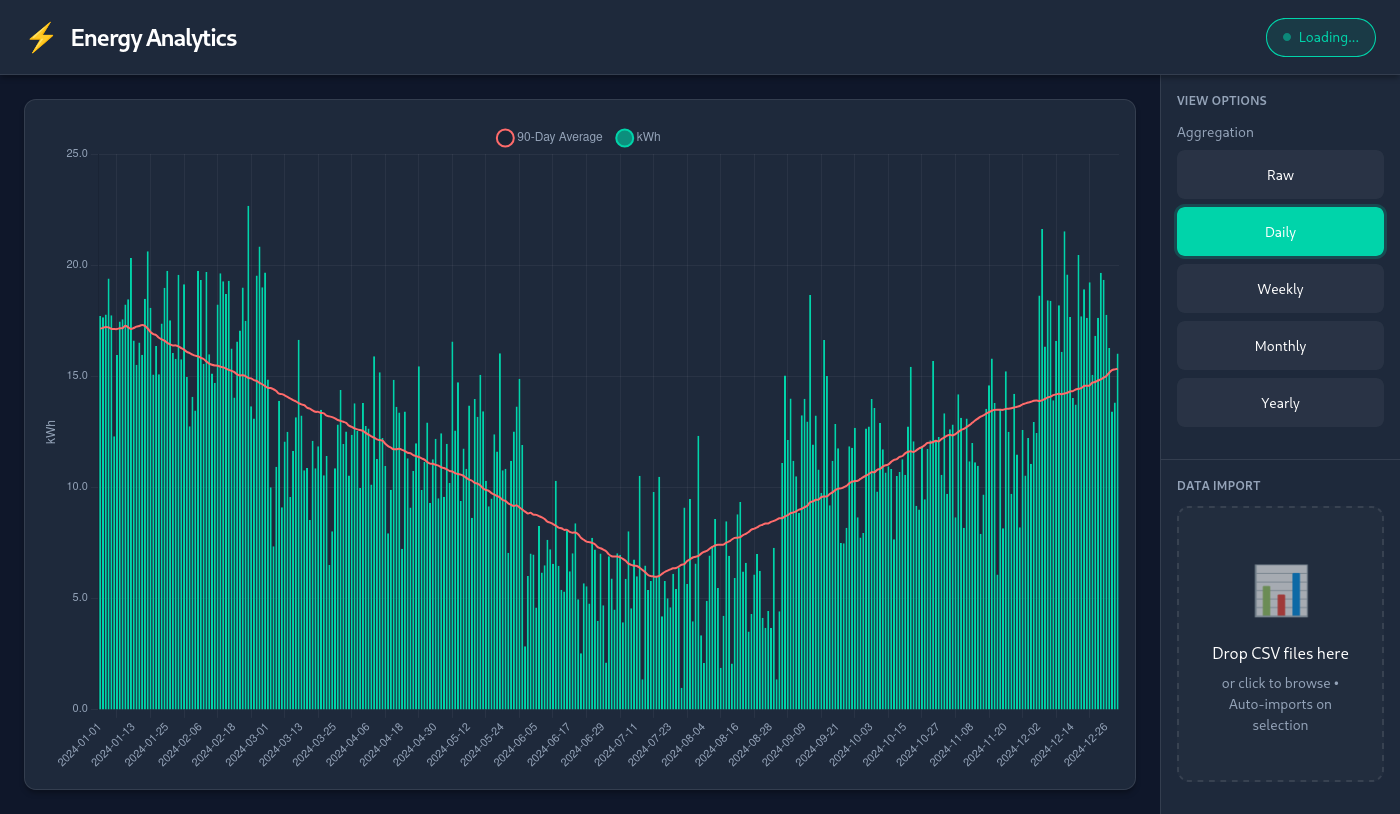
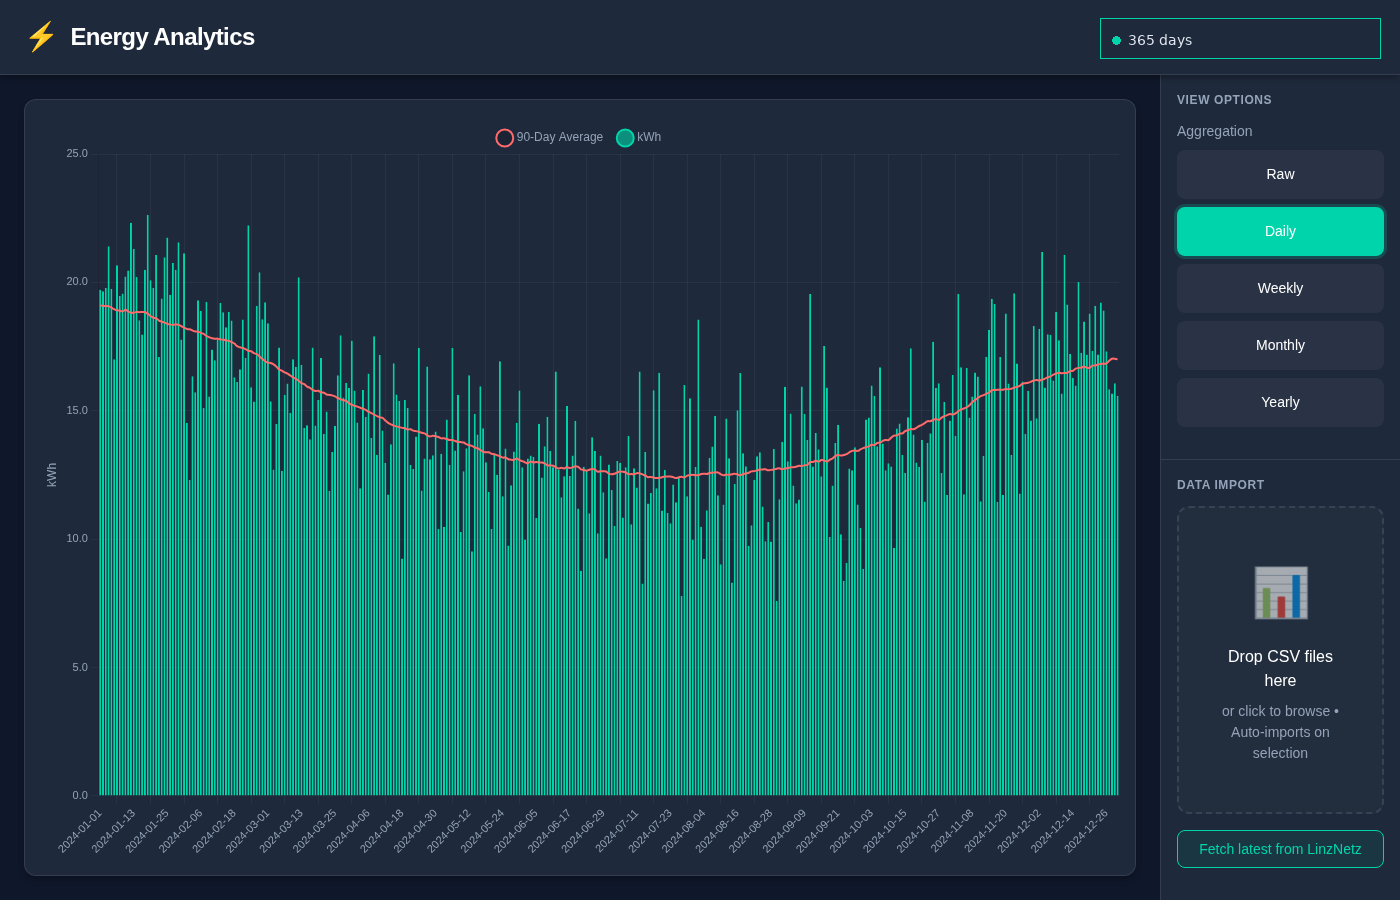
chore(release): bump version to 1.1.0, update changelog and screenshot

diff --git a/app.py b/app.py
@@ -72,7 +72,7 @@ async def lifespan(app: FastAPI):
 app = FastAPI(
     title="Energy Analysis",
     description="Web application for graphical analysis of energy consumption.",
-    version="1.0.0",
+    version="1.1.0",
     lifespan=lifespan,
     docs_url=None,
     redoc_url=None,

diff --git a/CHANGELOG.md b/CHANGELOG.md
@@ -5,6 +5,19 @@ All notable changes to this project will be documented in this file.
 The format is based on [Keep a Changelog](https://keepachangelog.com/en/1.1.0/),
 and this project adheres to [Semantic Versioning](https://semver.org/spec/v2.0.0.html).
 
+## [1.1.0] - 2026-05-03
+
+### Added
+
+- **Auto-fetch from LinzNetz portal** — new "Fetch latest from LinzNetz" button in the sidebar and `POST /api/fetch` endpoint. When `LINZNETZ_USERNAME` and `LINZNETZ_PASSWORD` are configured, the app logs into the LinzNetz consumption portal, downloads quarter-hour CSVs for any missing days in the lookback window, and imports them automatically.
+- `linznetz_fetcher.py` — standalone async scraper for the LinzNetz JSF/PrimeFaces portal with CLI support.
+- Environment variables `LINZNETZ_USERNAME`, `LINZNETZ_PASSWORD`, and `LINZNETZ_LOOKBACK_DAYS` (default 7) for portal credentials.
+- `.env.example` with documented configuration options.
+
+### Changed
+
+- `httpx` moved from dev to runtime dependencies (required for portal client).
+
 ## [1.0.0] - 2026-04-24
 
 ### Added

diff --git a/README.md b/README.md
@@ -21,7 +21,7 @@ data without a SMA device on the network — this is the right one.
 
 <p align="center">
   <img src="assets/screenshot.png" width="100%" alt="LinzNetz Energy Tracker Dashboard">
-  <br><em>Daily view with 90-day moving average and seasonal trends</em>
+  <br><em>Daily view with 90-day moving average, seasonal trends, and the new "Fetch latest from LinzNetz" button</em>
 </p>
 
 Austrian grid operators (Netzbetreiber) provide smart-meter data as raw CSV
